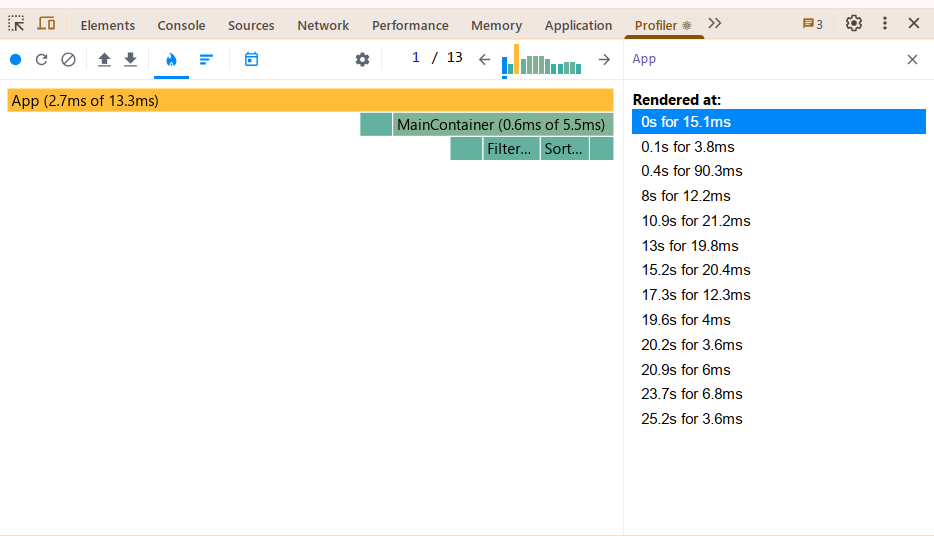
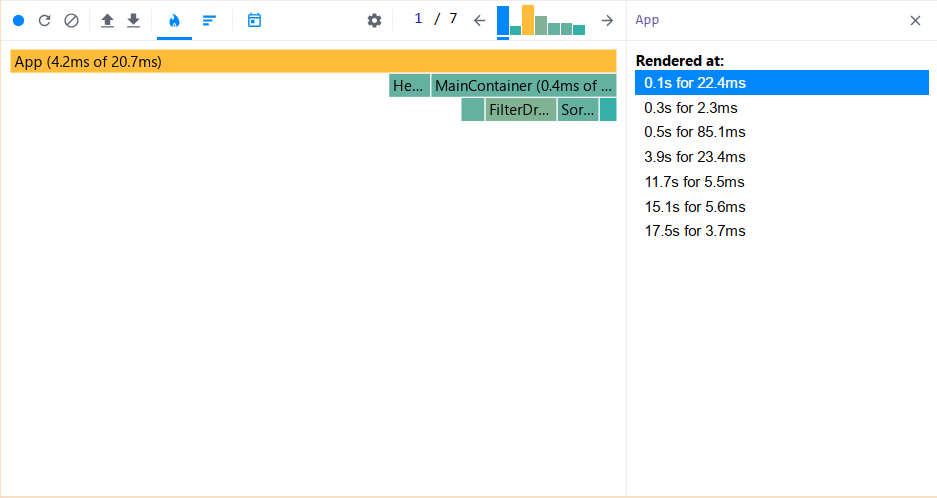
feat: add image standart render

Changed region(s): [[0.0, 0.0, 1.0, 0.6024], [0.0, 0.994, 1.0, 1.0], [0.6831, 0.6325, 0.8073, 0.8133]]

diff --git a/src/components/Filters/SortOptions.tsx b/src/components/Filters/SortOptions.tsx
@@ -20,7 +20,12 @@ const SortOptions: React.FC<SortOptionsProps> = ({
         id="sort-select"
         name="sort"
         value={sortKey ?? ''}
-        onChange={(e) => onSortKeyChange(e.target.value as SortKey)}
+        onChange={(e) => {
+          const value = e.target.value as SortKey;
+          if (value === 'name' || value === 'population') {
+            onSortKeyChange(value);
+          }
+        }}
       >
         <option value="name">Sort by Name</option>
         <option value="population">Sort by Population</option>

diff --git a/src/components/Filters/SearchBar.tsx b/src/components/Filters/SearchBar.tsx
@@ -19,7 +19,6 @@ const SearchBar: React.FC<SearchBarProps> = ({
     >
       <input
         type="text"
-        name="search"
         placeholder="Search by country name"
         value={searchQuery}
         onChange={(e) => setSearchQuery(e.target.value)}

diff --git a/src/components/CountryCard.tsx b/src/components/CountryCard.tsx
@@ -1,6 +1,7 @@
 import React from 'react';
 import { Country } from '../types/type';
 import style from './CountryCard.module.scss';
+
 interface CountryCardProps {
   country: Country;
   visitedCountries: boolean;

diff --git a/README.md b/README.md
@@ -1,26 +1,21 @@
 ### Steps
 
 1. Refresh the page.
-2. Find the country **Austria** / reset the filter.
-3. Choose sorting by **region** / reset the filter.
+2. Find the country **G**
+3. Choose sorting by **Europe**
 4. Sort by **population** → **name**.
-5. Perform sorting.
+5. Perform sorting **Descending**
 6. Visit the first 3 countries / highlight them.
-
-![standart-sort](screen/standart-sort.png)
 
 ---
 
 ### Updated Performance Analysis
 
 - **Commit Duration (before/after):** X ms → Y ms
-  ![standart-sort](screen/standart-sort.png)
-
 - **Render Duration (before/after):** A ms → B ms
+
   ![standart-sort](screen/standart-sort.png)
+  ![standart-sort](screen/standart-sort1.png)
 
 - **Flame Graph:** Components now take less time to render.
-  ![standart-sort](screen/standart-sort.png)
-
 - **Interactions:** The number of unnecessary updates has decreased.
-  ![standart-sort](screen/standart-sort.png)
